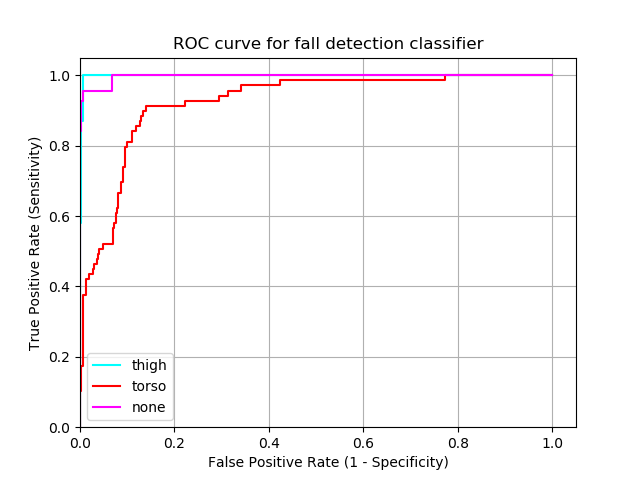
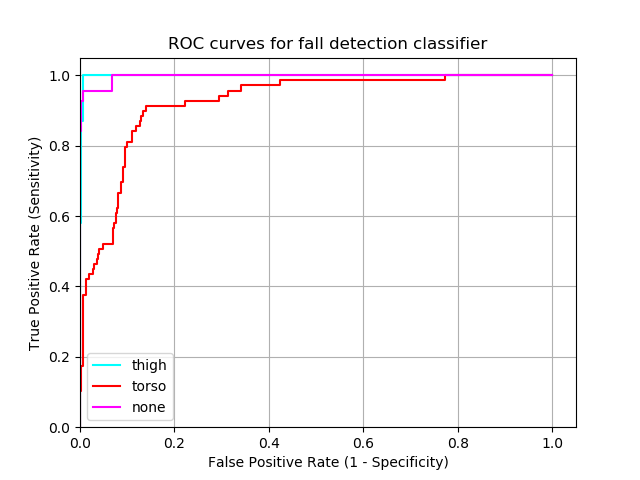
confusion matrices

Changed region(s): [[0.25, 0.0625, 0.75, 0.125]]

diff --git a/code/classifiers/evaluator.py b/code/classifiers/evaluator.py
@@ -3,6 +3,7 @@ import pandas as pd
 import numpy as np
 from sklearn import svm
 from sklearn.metrics import roc_curve
+from sklearn.metrics import confusion_matrix
 
 from matplotlib import pyplot as plt
 
@@ -12,7 +13,7 @@ def roc_drawer(features=None, normalized_mode="thigh_len"):
     this function generates the plot for roc curve, models are svm based on different normalized data
     :param features: features chosen to train the model
     :param normalized_mode: how the data is normalized, e.g. "thigh_len"
-    :return: plot TP rate, FP rate
+    :return: plot TP rate, FP rate, confusion matrix
     """
     if features is None:
         features = ['0x', '0y', '1x', '1y', '2x', '2y', '3x', '3y', '5x', '5y', '6x', '6y', '8x', '8y', '9x', '9y',
@@ -74,22 +75,60 @@ def roc_drawer(features=None, normalized_mode="thigh_len"):
     scores = svc.decision_function(test_set)
     fpr, tpr, thresholds = roc_curve(test_label, scores)
 
-    return fpr, tpr
+    label_pred = svc.predict(training_set)
+    metric = confusion_matrix(training_label, label_pred)
+
+    return fpr, tpr, metric
 
 
-fpr_thigh, tpr_thigh = roc_drawer(normalized_mode="thigh_len")
-fpr_torso, tpr_torso = roc_drawer(normalized_mode="torso_box")
-fpr_none, tpr_none = roc_drawer(normalized_mode="none")
+def confusion_metric_drawer(metric_array, plt_name):
+    TP = metric_array[1][1]
+    FP = metric_array[0][1]
+    FN = metric_array[1][0]
+    TN = metric_array[0][0]
 
+    accuracy = (TP + TN) / (TP + TN + FP + FN)
+    precision = TP / (TP + FP)
+    recall = TP / (TP + FN)
+
+    fig, ax = plt.subplots(figsize=(3.5, 6))
+    ax.matshow(metric_array, cmap=plt.cm.Blues, alpha=0.3)
+    for i in range(metric_array.shape[0]):
+        for j in range(metric_array.shape[1]):
+            ax.text(x=j, y=i, s=metric_array[i, j], va='center', ha='center')
+    plt.xlabel('predicted label')
+    plt.ylabel('true label')
+    font = {'color': 'red',
+            'size': 10,
+            'family': 'Times New Roman', }
+    plt.text(-0.5, -1.5, 'Precision: '+str(precision), fontdict=font)
+    plt.text(-0.5, -1, 'Recall: '+str(recall), fontdict=font)
+
+    plt.savefig(plt_name)
+    plt.show()
+    plt.cla()
+
+
+fpr_thigh, tpr_thigh, metric_thigh = roc_drawer(normalized_mode="thigh_len")
+fpr_torso, tpr_torso, metric_torso = roc_drawer(normalized_mode="torso_box")
+fpr_none, tpr_none, metric_none = roc_drawer(normalized_mode="none")
+
+# draw roc curve
 plt.plot(fpr_thigh, tpr_thigh, color='cyan', label='thigh')
 plt.plot(fpr_torso, tpr_torso, color='red', label='torso')
 plt.plot(fpr_none, tpr_none, color='magenta', label='none')
 plt.legend()
 plt.xlim([0.0, 1.05])
 plt.ylim([0.0, 1.05])
-plt.title('ROC curve for fall detection classifier')
+plt.title('ROC curves for fall detection classifier')
 plt.xlabel('False Positive Rate (1 - Specificity)')
 plt.ylabel('True Positive Rate (Sensitivity)')
 plt.grid(True)
 plt.savefig("../output/roc_curves.png")
 plt.show()
+plt.cla()
+
+# draw confusion matrix
+confusion_metric_drawer(metric_thigh, "../output/metric_thigh.png")
+confusion_metric_drawer(metric_torso, "../output/metric_torso.png")
+confusion_metric_drawer(metric_none, "../output/metric_none.png")
